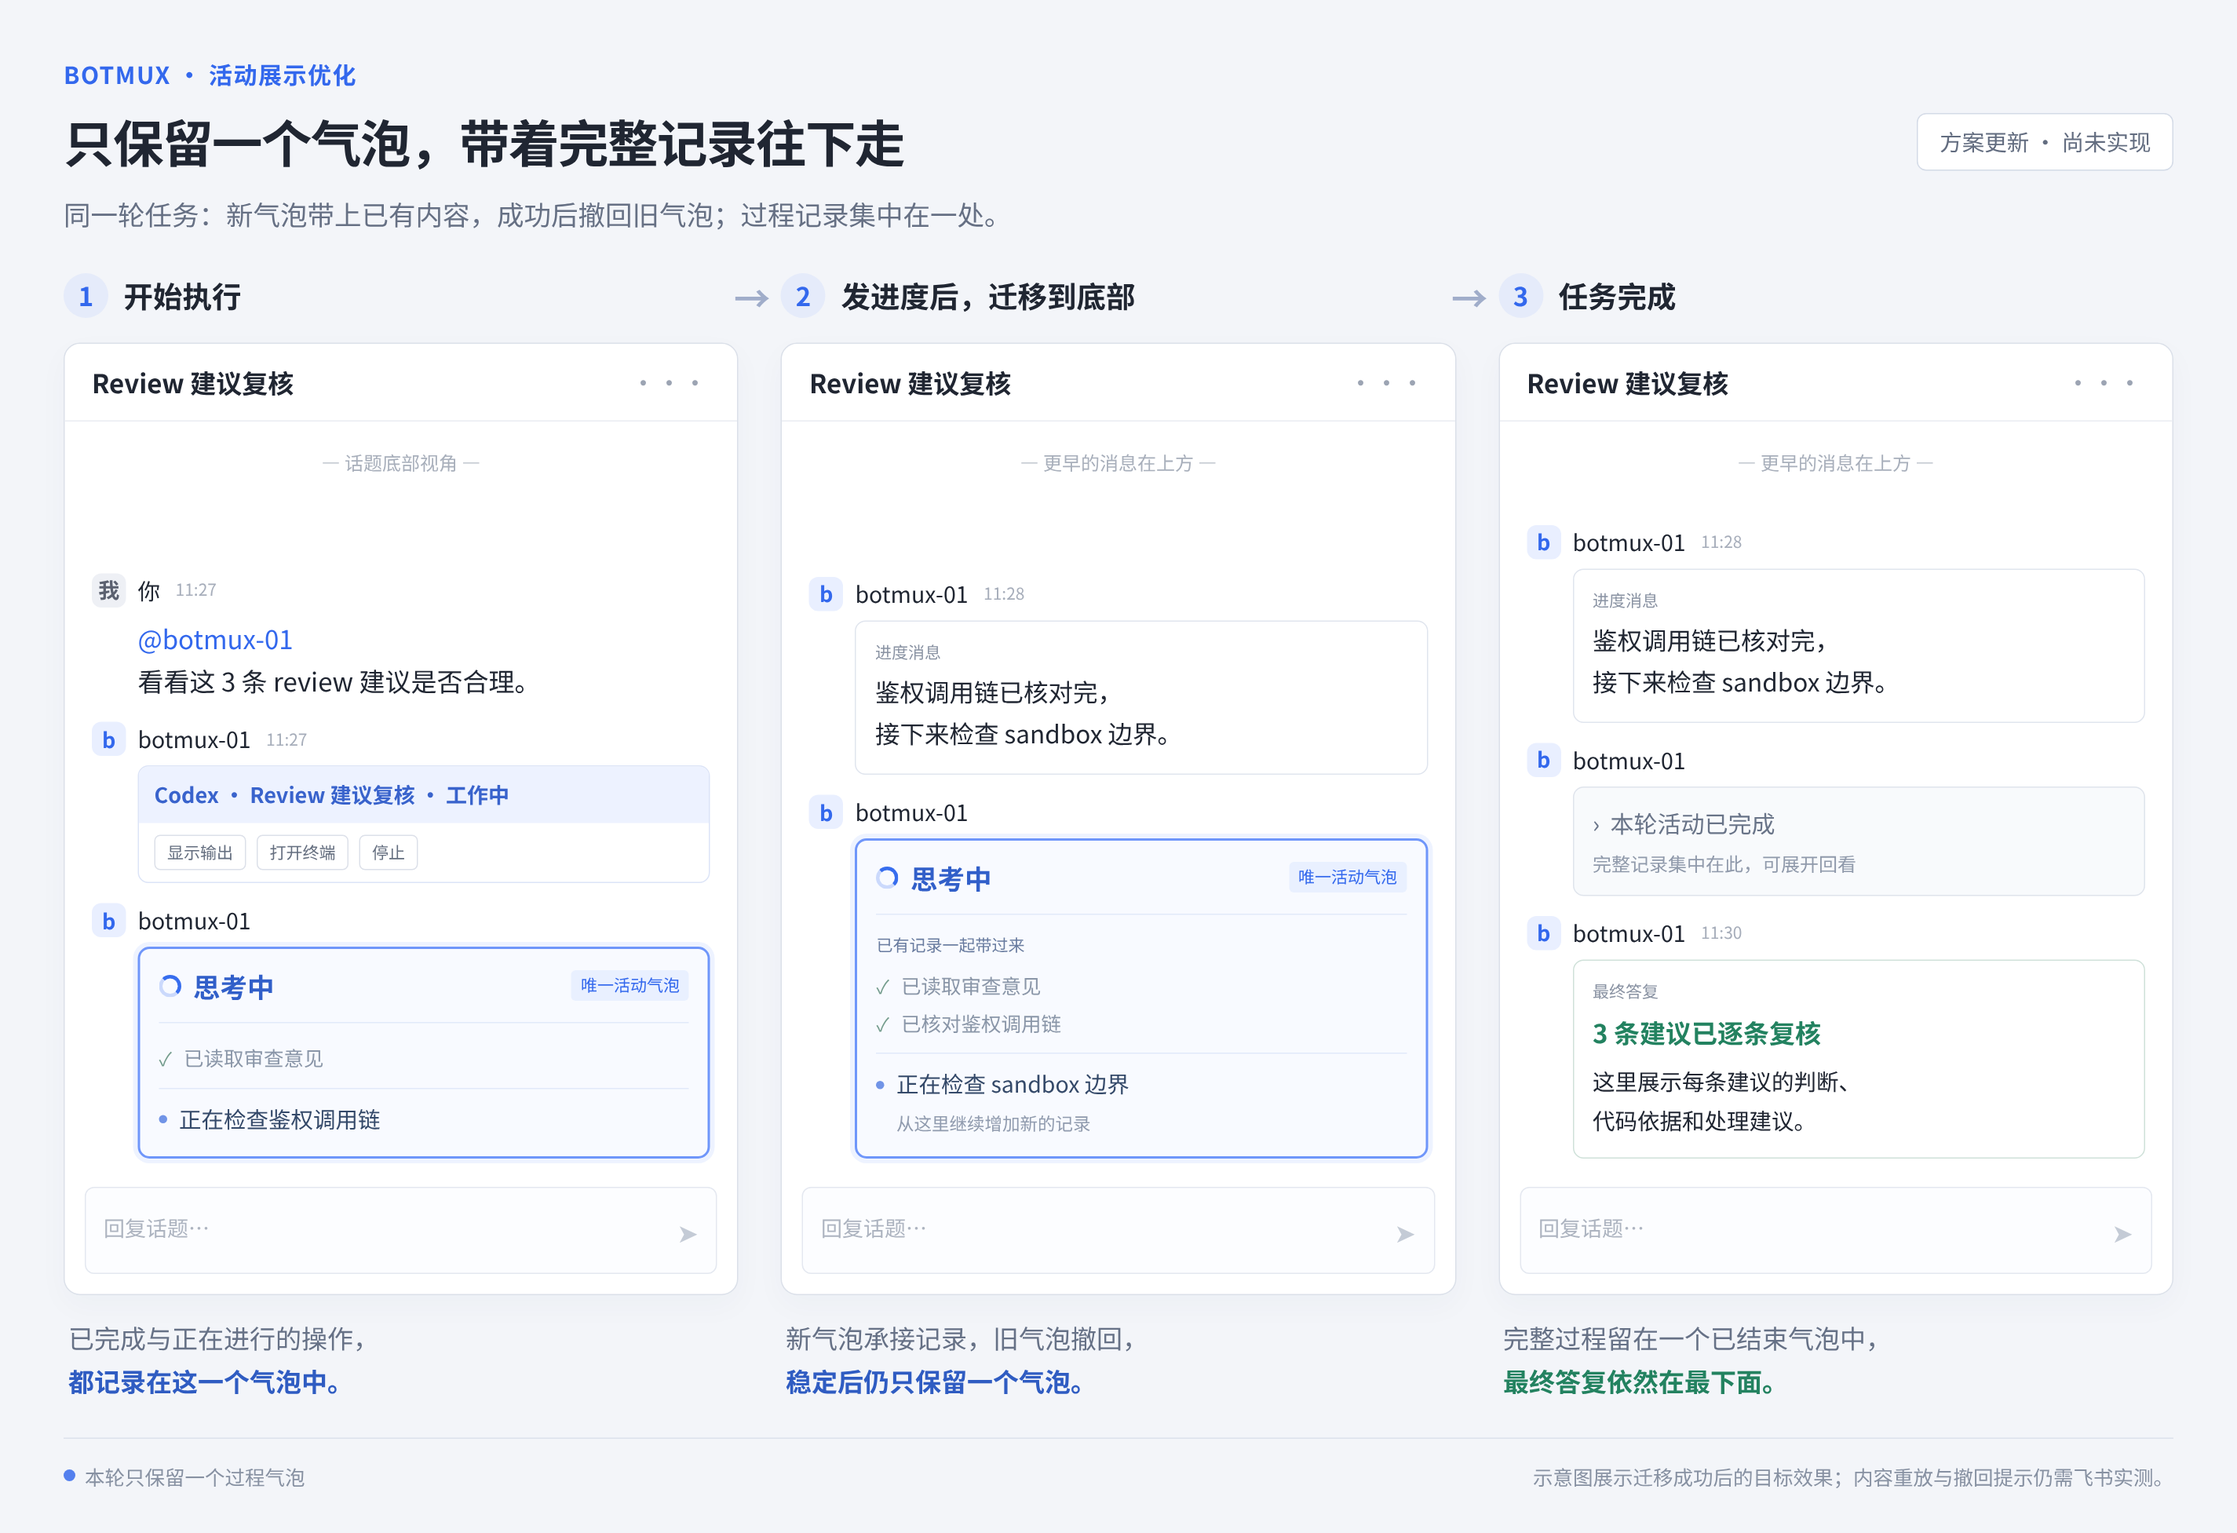
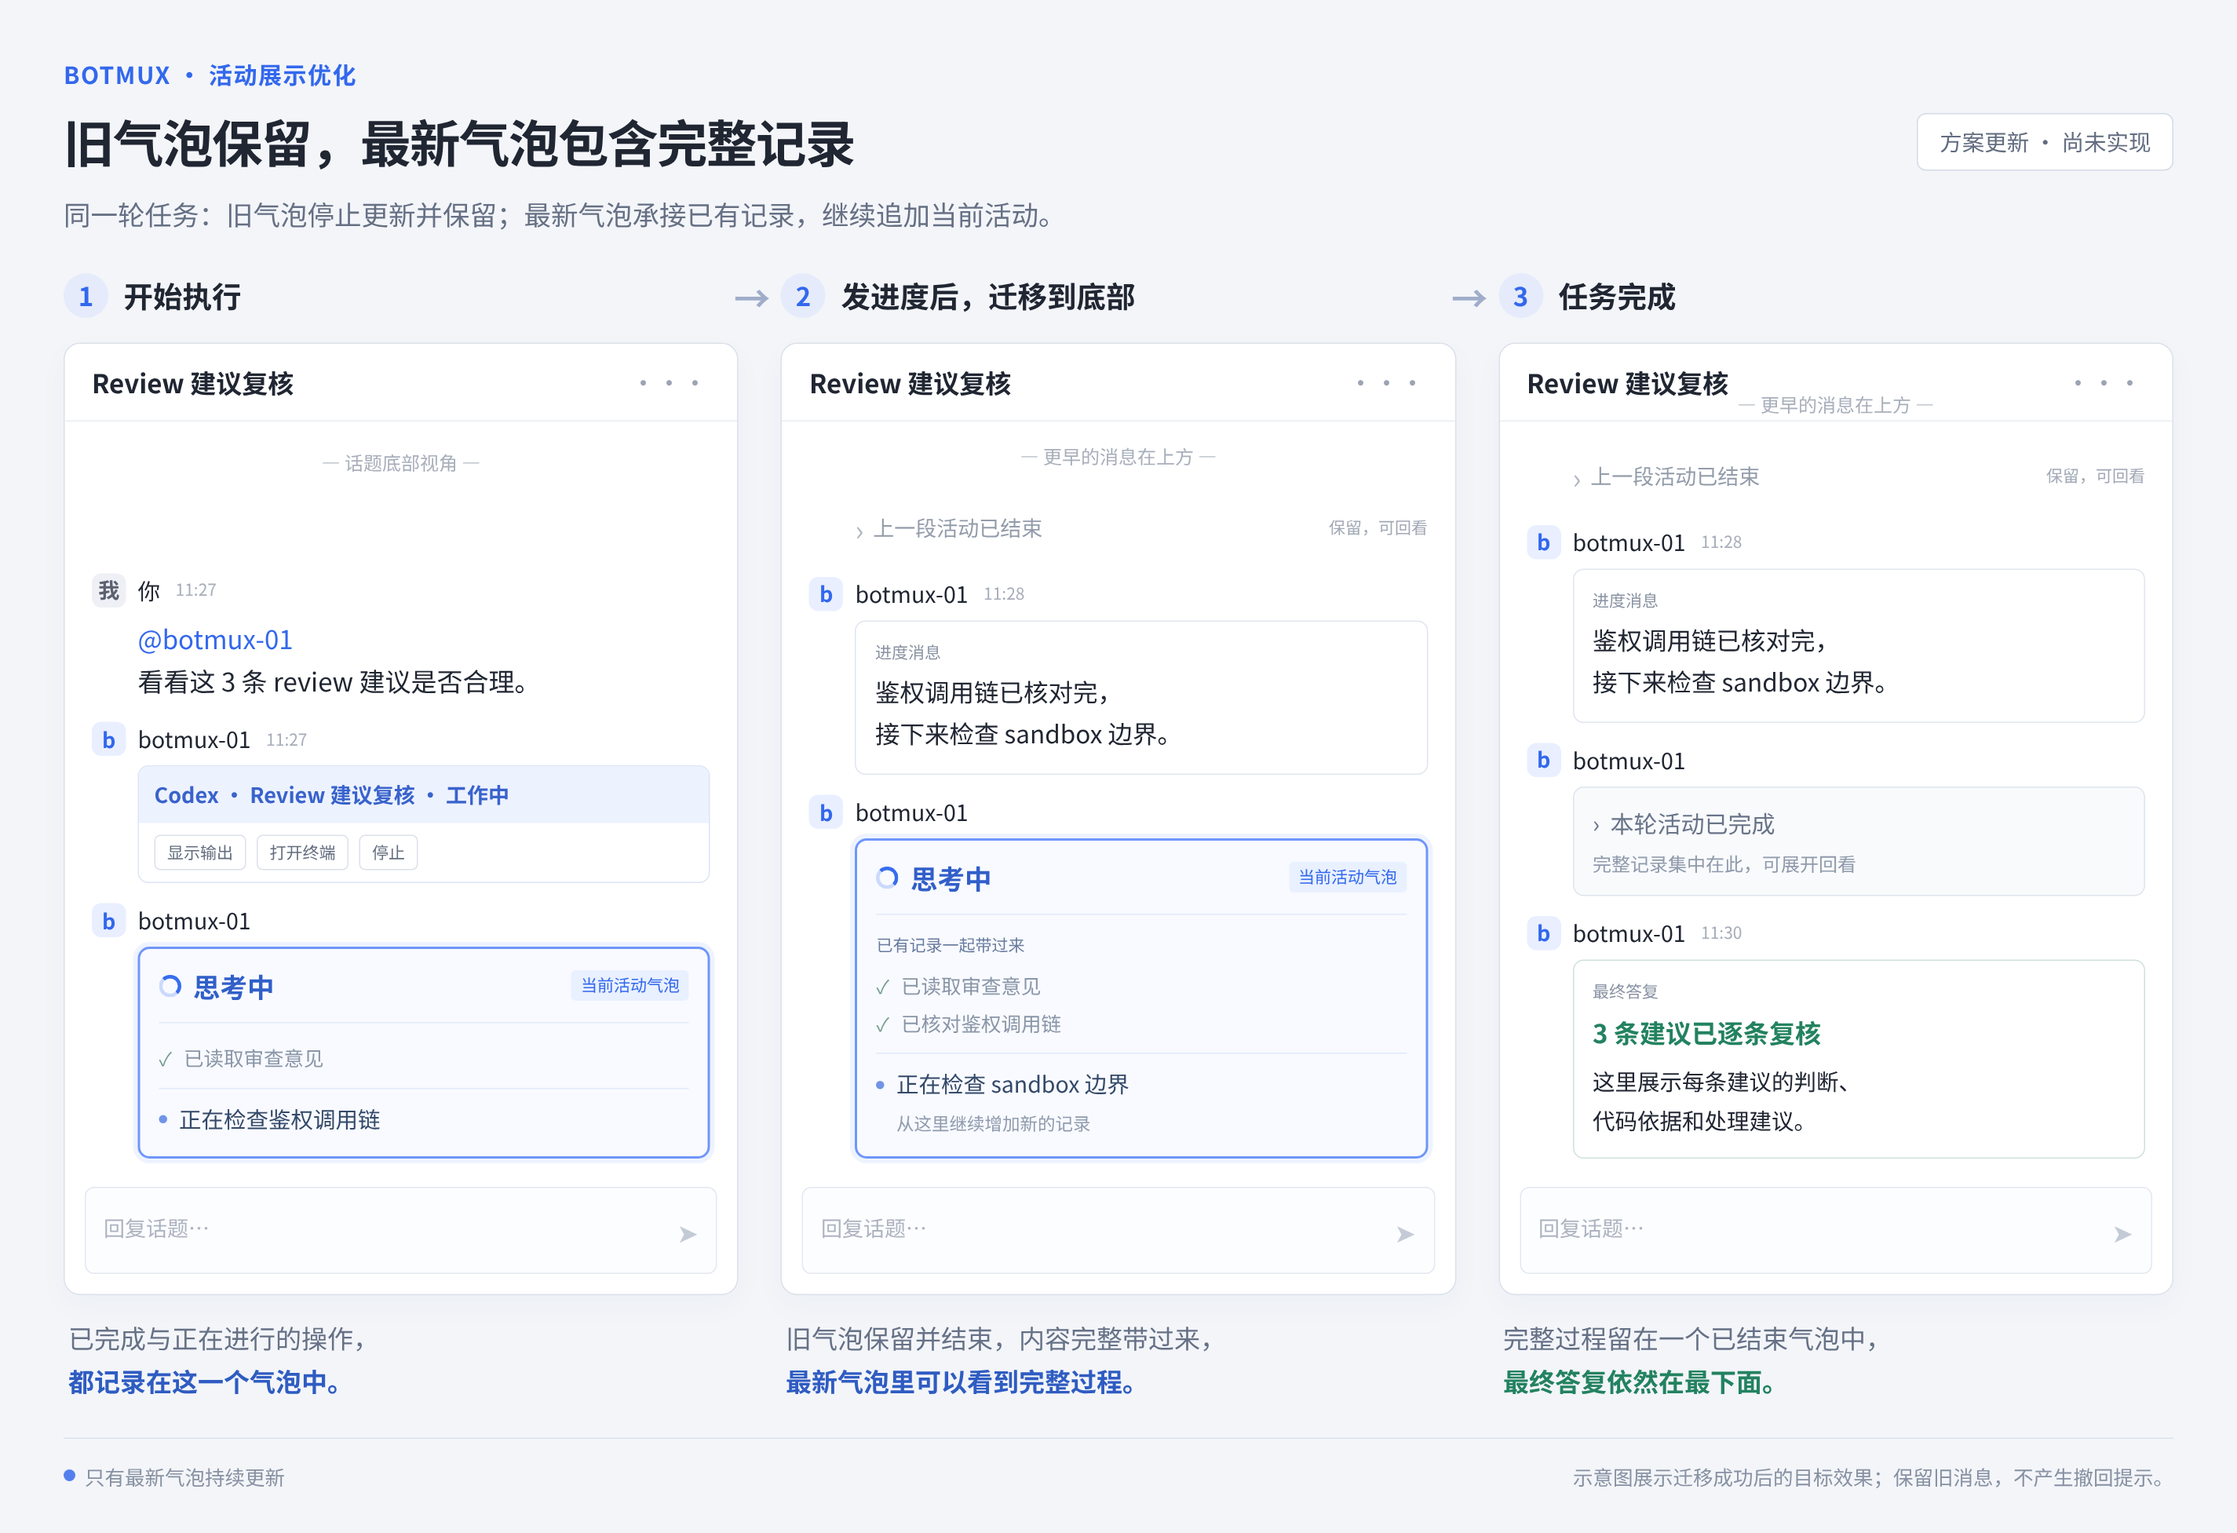
fix(cot): 保留旧气泡并确保最新气泡包含完整记录

diff --git a/test/cot-message.test.ts b/test/cot-message.test.ts
@@ -991,12 +991,13 @@ describe('activity bubble follows completed deliveries', () => {
   afterEach(async () => {
     abortCotMessage(ds);
     await flush();
+    expect(deletes()).toEqual([]);
     vi.clearAllTimers();
     vi.useRealTimers();
     rmSync(journal, { force: true });
   });
 
-  it('replays full confirmed history before recall, then appends new work only to the replacement', async () => {
+  it('replays full history before completing the old bubble and keeps both messages', async () => {
     handleCotThinkingUpdate(ds, upd([say('first'), think('second')]));
     await flush();
     const original = forBubble('cot1');
@@ -1004,10 +1005,11 @@ describe('activity bubble follows completed deliveries', () => {
     await vi.advanceTimersByTimeAsync(2_000);
     expect(creates()).toHaveLength(2);
     expect(forBubble('cot2')).toEqual(original);
-    expect(deletes().map(([r]) => r.url)).toEqual(['/open-apis/im/v1/messages/om_cot1']);
+    expect(deletes()).toEqual([]);
+    expect(request.mock.calls.some(([r]) => r.url.endsWith('/complete/cot1'))).toBe(true);
     const replayIndex = request.mock.calls.findIndex(([r]) => r.method === 'PUT' && r.data.cot_id === 'cot2');
-    const recallIndex = request.mock.calls.findIndex(([r]) => r.method === 'DELETE');
-    expect(recallIndex).toBeGreaterThan(replayIndex);
+    const completeIndex = request.mock.calls.findIndex(([r]) => r.url.endsWith('/complete/cot1'));
+    expect(completeIndex).toBeGreaterThan(replayIndex);
     expect(existsSync(join(orphanDir, 'cot1.json'))).toBe(false);
     expect(existsSync(join(orphanDir, 'cot2.json'))).toBe(true);
     request.mockClear();
@@ -1040,7 +1042,8 @@ describe('activity bubble follows completed deliveries', () => {
       ? { code: 999, msg: 'replay refused' } : normal(r));
     appendDelivery();
     await vi.advanceTimersByTimeAsync(2_000);
-    expect(deletes().map(([r]) => r.url)).toEqual(['/open-apis/im/v1/messages/om_cot2']);
+    expect(deletes()).toEqual([]);
+    expect(request.mock.calls.some(([r]) => r.url.endsWith('/complete/cot2'))).toBe(true);
     handleCotThinkingUpdate(ds, upd([think('a'), think('b')]));
     await flush();
     expect(forBubble('cot1').some((e: any) => JSON.parse(e.content).delta === 'b')).toBe(true);
@@ -1049,11 +1052,11 @@ describe('activity bubble follows completed deliveries', () => {
     expect(creates()).toHaveLength(2);
   });
 
-  it('stops moving after recall fails and completes the duplicate', async () => {
+  it('stops moving when completing the preserved old bubble fails', async () => {
     handleCotThinkingUpdate(ds, upd([think('a')]));
     await flush();
     const normal = request.getMockImplementation()!;
-    request.mockImplementation(async r => r.method === 'DELETE' ? { code: 230011 } : normal(r));
+    request.mockImplementation(async r => r.url.endsWith('/complete/cot1') ? { code: 999 } : normal(r));
     appendDelivery();
     await vi.advanceTimersByTimeAsync(2_000);
     expect(request.mock.calls.some(([r]) => r.url.endsWith('/complete/cot1'))).toBe(true);
@@ -1079,7 +1082,7 @@ describe('activity bubble follows completed deliveries', () => {
     expect(creates()).toHaveLength(1);
   });
 
-  it('removes an in-flight replacement when a final answer arrives during create', async () => {
+  it('finishes a replacement with full history when a final answer arrives during create', async () => {
     handleCotThinkingUpdate(ds, upd([think('a')]));
     await flush();
     const normal = request.getMockImplementation()!;
@@ -1093,9 +1096,10 @@ describe('activity bubble follows completed deliveries', () => {
     appendDelivery('final');
     finishCreate({ code: 0, data: { cot_id: 'cot2', message_id: 'om_cot2' } });
     await vi.advanceTimersByTimeAsync(500);
-    expect(deletes().map(([r]) => r.url)).toEqual(['/open-apis/im/v1/messages/om_cot2']);
-    expect(forBubble('cot2')).toEqual([]);
-    expect(forBubble('cot1').some((e: any) => e.event_type === 'RUN_FINISHED')).toBe(true);
+    expect(deletes()).toEqual([]);
+    expect(request.mock.calls.some(([r]) => r.url.endsWith('/complete/cot1'))).toBe(true);
+    expect(forBubble('cot2').some((e: any) => JSON.parse(e.content).delta === 'a')).toBe(true);
+    expect(forBubble('cot2').some((e: any) => e.event_type === 'RUN_FINISHED')).toBe(true);
   });
 
   it('keeps hidden output hidden while replaying after display preferences change', async () => {
@@ -1119,11 +1123,11 @@ describe('activity bubble follows completed deliveries', () => {
     expect(creates()).toHaveLength(0);
   });
 
-  it('retains orphan markers when both recall and completion fail', async () => {
+  it('retains orphan markers when completion fails', async () => {
     handleCotThinkingUpdate(ds, upd([think('a')]));
     await flush();
     const normal = request.getMockImplementation()!;
-    request.mockImplementation(async r => r.method === 'DELETE' || r.url.includes('/complete/')
+    request.mockImplementation(async r => r.url.includes('/complete/')
       ? { code: 999 } : normal(r));
     appendDelivery();
     await vi.advanceTimersByTimeAsync(2_000);
@@ -1153,13 +1157,13 @@ describe('activity bubble follows completed deliveries', () => {
     expect(forBubble('cot1').some((e: any) => JSON.parse(e.content).delta === 'b')).toBe(false);
   });
 
-  it.each(['terminal', 'abort', 'shutdown', 'superseded'])('cancels an in-flight move on %s', async reason => {
+  it.each(['terminal', 'abort', 'shutdown', 'superseded'])('preserves the complete newest snapshot when interrupted by %s', async reason => {
     handleCotThinkingUpdate(ds, upd([think('a')]));
     await flush();
     const normal = request.getMockImplementation()!;
     let release!: (value: unknown) => void;
     request.mockImplementation(async r => {
-      if (r.method === 'PUT' && r.data.cot_id === 'cot2') return new Promise(resolve => { release = resolve; });
+      if (r.method === 'PUT' && r.data.cot_id === 'cot2' && !release) return new Promise(resolve => { release = resolve; });
       return normal(r);
     });
     appendDelivery();
@@ -1170,8 +1174,12 @@ describe('activity bubble follows completed deliveries', () => {
     if (reason === 'superseded') handleCotThinkingUpdate(ds, upd([think('next')], 'om_turn2'));
     release({ code: 0 });
     await vi.advanceTimersByTimeAsync(1);
-    expect(deletes().map(([r]) => r.url)).toEqual(['/open-apis/im/v1/messages/om_cot2']);
-    expect(forBubble('cot1').filter((e: any) => e.event_type === 'RUN_FINISHED')).toHaveLength(1);
+    expect(deletes()).toEqual([]);
+    expect(request.mock.calls.some(([r]) => r.url.endsWith('/complete/cot1'))).toBe(true);
+    expect(forBubble('cot2').some((e: any) => JSON.parse(e.content).delta === 'a')).toBe(true);
+    expect(reason === 'shutdown'
+      ? request.mock.calls.some(([r]) => r.url.endsWith('/complete/cot2'))
+      : forBubble('cot2').some((e: any) => e.event_type === 'RUN_FINISHED')).toBe(true);
   });
 
   it('replays large histories in API-sized batches', async () => {
@@ -1183,5 +1191,23 @@ describe('activity bubble follows completed deliveries', () => {
     const batches = request.mock.calls.filter(([r]) => r.method === 'PUT' && r.data.cot_id === 'cot2');
     expect(batches).toHaveLength(4);
     expect(batches.every(([r]) => r.data.events.length <= 50)).toBe(true);
+  });
+
+  it('keeps every prior step in the newest bubble across multiple progress messages', async () => {
+    handleCotThinkingUpdate(ds, upd([think('first')]));
+    await flush();
+    appendDelivery();
+    await vi.advanceTimersByTimeAsync(2_000);
+    handleCotThinkingUpdate(ds, upd([think('first'), think('second')]));
+    await flush();
+    appendDelivery();
+    await vi.advanceTimersByTimeAsync(5_000);
+    handleCotThinkingUpdate(ds, upd([think('first'), think('second'), think('third')]));
+    await flush();
+    expect(creates()).toHaveLength(3);
+    expect(forBubble('cot3').filter((e: any) => e.event_type === 'REASONING_MESSAGE_CONTENT')
+      .map((e: any) => JSON.parse(e.content).delta)).toEqual(['first', 'second', 'third']);
+    expect(request.mock.calls.filter(([r]) => r.url.includes('/complete/')).map(([r]) => r.url))
+      .toEqual(['/open-apis/im/v1/message_cot/complete/cot1', '/open-apis/im/v1/message_cot/complete/cot2']);
   });
 });

diff --git a/src/im/lark/cot-message.ts b/src/im/lark/cot-message.ts
@@ -34,9 +34,9 @@
  *      error-path fallback so a failed terminal batch can't leave the bubble
  *      spinning forever.
  *   4. Completed in-session sends move the active bubble below the reply:
- *      replay confirmed display events, switch the writer, then recall the
- *      previous message. Coalesce bursts; migration failures leave the old
- *      bubble intact, recall failures disable further movement for this turn.
+ *      replay confirmed display events, switch the writer, then complete the
+ *      previous message without recalling it. Coalesce bursts; migration
+ *      failures leave the old bubble intact.
  *
  * Strictly cosmetic: every network call catches its own errors and never
  * touches turn settlement.
@@ -435,21 +435,17 @@ async function apiComplete(ds: DaemonSession, state: CotState, reason: 'done' | 
   if (result?.code !== undefined && result.code !== 0) throw new Error(`CompleteCOT failed: ${result.code}`);
 }
 
-/** Retire only a CoT created by this module. Leave an orphan marker whenever
- * both recall and completion fail, so restart recovery can stop its spinner. */
+/** Preserve older bubbles as completed history. Never recall a message: Lark
+ * leaves a misleading recalled-message placeholder. Keep the orphan marker
+ * if completion fails, so restart recovery can stop its spinner. */
 async function retireBubble(ds: DaemonSession, state: CotState): Promise<boolean> {
   if (!state.cotId || !state.messageId) return true;
   try {
-    const result = await getBotClient(ds.larkAppId).request({
-      method: 'DELETE', url: `/open-apis/im/v1/messages/${encodeURIComponent(state.messageId)}`,
-      timeout: COT_REQUEST_TIMEOUT_MS,
-    } as any);
-    if (result?.code !== 0) throw new Error(`RecallCOT failed: ${result?.code}`);
+    await apiComplete(ds, state, 'done');
     clearCotOrphanMarker(state);
     return true;
   } catch (err) {
-    logger.warn(`[cot] recall failed msg=${state.messageId}: ${err instanceof Error ? err.message : String(err)}`);
-    try { await apiComplete(ds, state, 'done'); clearCotOrphanMarker(state); } catch { /* orphan sweep retries */ }
+    logger.warn(`[cot] completion failed msg=${state.messageId}: ${err instanceof Error ? err.message : String(err)}`);
     return false;
   }
 }
@@ -461,27 +457,42 @@ async function migrateBubble(ds: DaemonSession, state: CotState): Promise<void> 
   const canMove = () => !state.disabled && !state.settled && !state.finishStatus && !state.migrationDisabled
     && states.get(ds) === state && ds.session.status !== 'closed' && cotEnabled(ds);
   if (!canMove()) return;
-  const replacement: CotState = { ...state, cotId: undefined, messageId: undefined, followTimer: undefined };
+  const replacement: CotState = { ...state, cotId: undefined, messageId: undefined, followTimer: undefined,
+    resultLanguages: state.resultLanguages ? new Map(state.resultLanguages) : undefined };
   try {
     await apiCreate(ds, replacement);
     recordCotOrphanMarker(ds, replacement);
-    observeDeliveries(ds, state);
-    if (!canMove()) { await retireBubble(ds, replacement); return; }
+    // Even if the turn ends during create, the now-visible newest bubble
+    // must receive the full snapshot before being completed.
     await apiAppend(ds, replacement, state.history);
     observeDeliveries(ds, state);
-    if (!canMove()) { await retireBubble(ds, replacement); return; }
+
+    // Updates may arrive during replay. Capture them before switching so the
+    // newest visible bubble is complete even when shutdown has already marked
+    // this state settled. The pump owns the writer throughout this operation.
+    const pending = state.pendingEntries;
+    if (pending && pending.length > state.sentCount) {
+      const batch: CotEvent[] = [];
+      for (let i = state.sentCount; i < pending.length; i++) batch.push(...entryEvents(ds, replacement, pending[i], i));
+      await apiAppend(ds, replacement, batch);
+      state.history.push(...batch);
+      state.sentCount = pending.length;
+      state.lastReasoningId = replacement.lastReasoningId;
+      state.resultLanguages = replacement.resultLanguages;
+    }
 
     const previous: CotState = { ...state };
     state.cotId = replacement.cotId;
     state.messageId = replacement.messageId;
     state.createdAtMs = replacement.createdAtMs;
     state.lastMoveAtMs = Date.now();
+    if (!canMove() && !state.finishStatus && !state.settled) state.finishStatus = 'interrupted';
     if (!await retireBubble(ds, previous)) {
-      // One completed duplicate is preferable to accumulating another bubble
-      // on every progress message when the tenant cannot recall CoT messages.
+      // Avoid accumulating more live spinners when completion is unavailable.
       state.migrationDisabled = true;
       state.moveDueAtMs = undefined;
     }
+    if (state.settled) await retireBubble(ds, state);
   } catch (err) {
     state.migrationDisabled = true;
     state.moveDueAtMs = undefined;

diff --git a/src/services/cot-send-observer.ts b/src/services/cot-send-observer.ts
@@ -8,7 +8,7 @@ export interface CotDelivery {
 
 /** Incremental reader of the session's existing send journal. Only completed
  * in-session deliveries explicitly marked by cmdSend can move the bubble.
- * Never uses a journal message id as a deletion target. */
+ * Journal message ids are only dedupe keys, never mutation targets. */
 export class CotSendObserver {
   private offset = 0;
   private inode = '';
